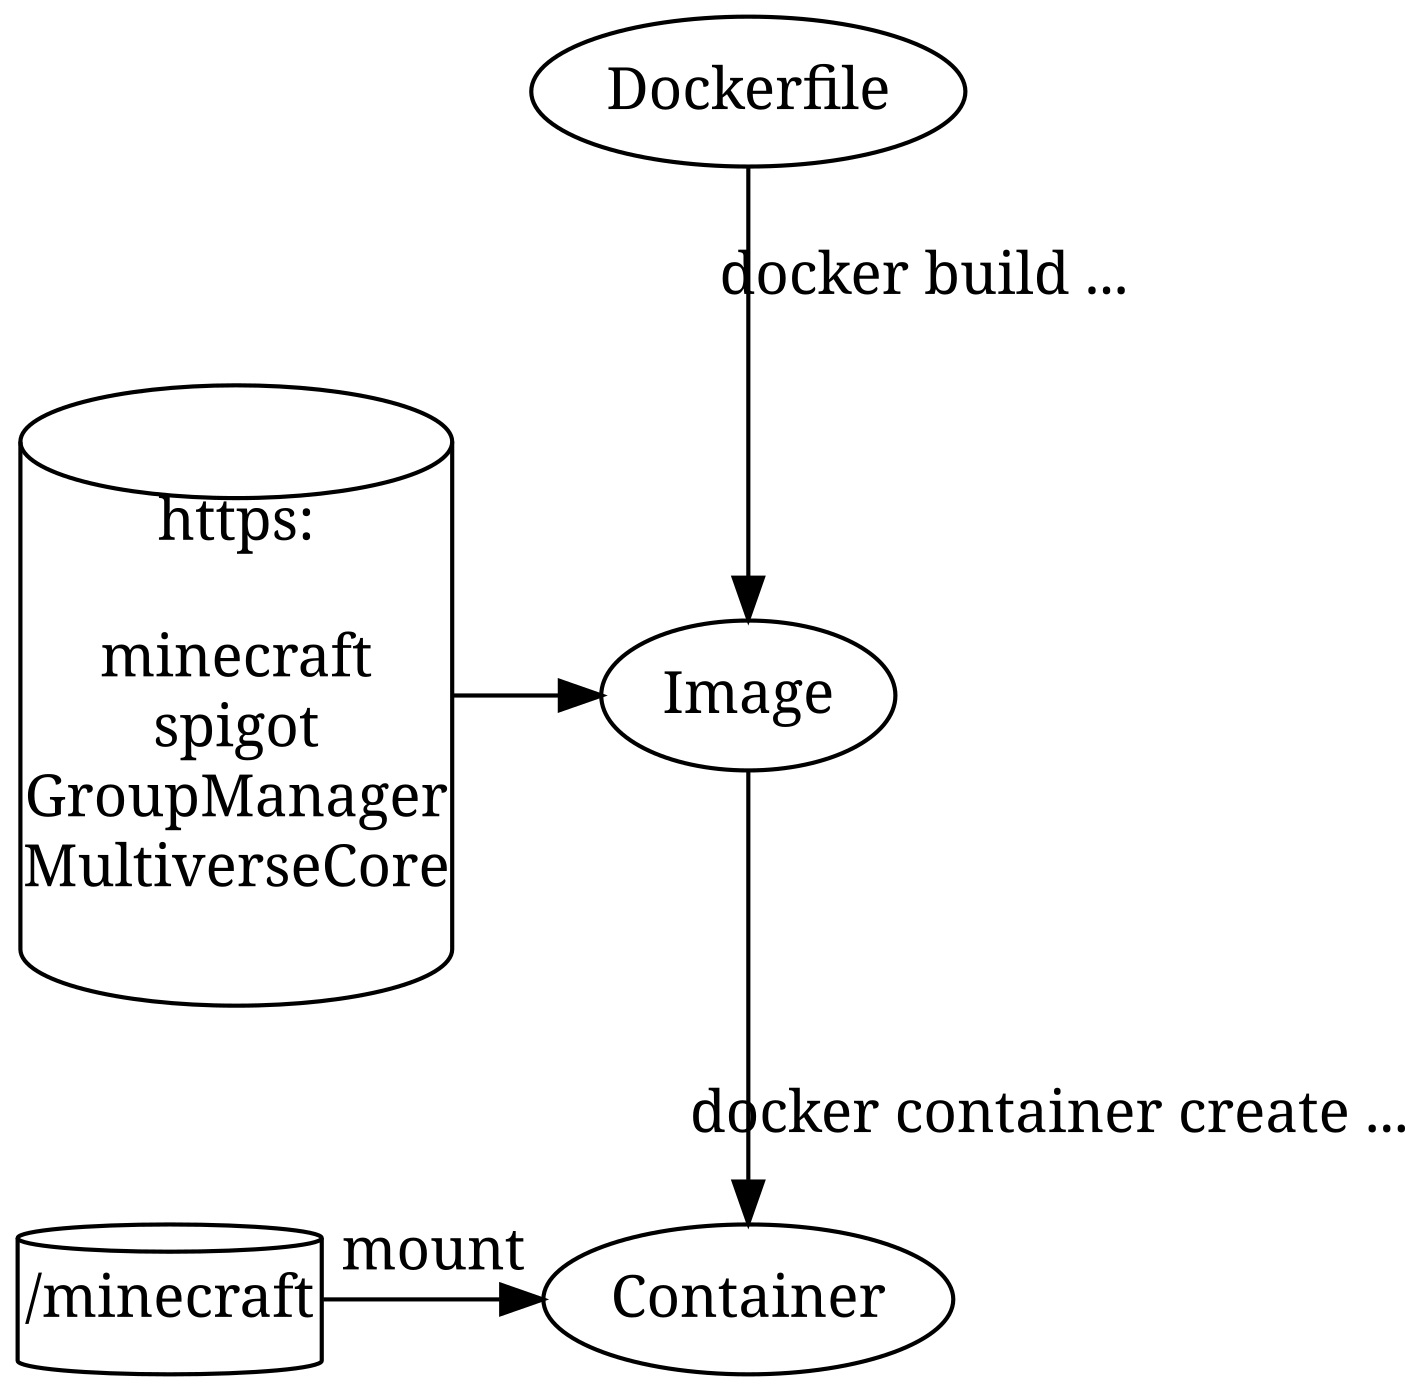
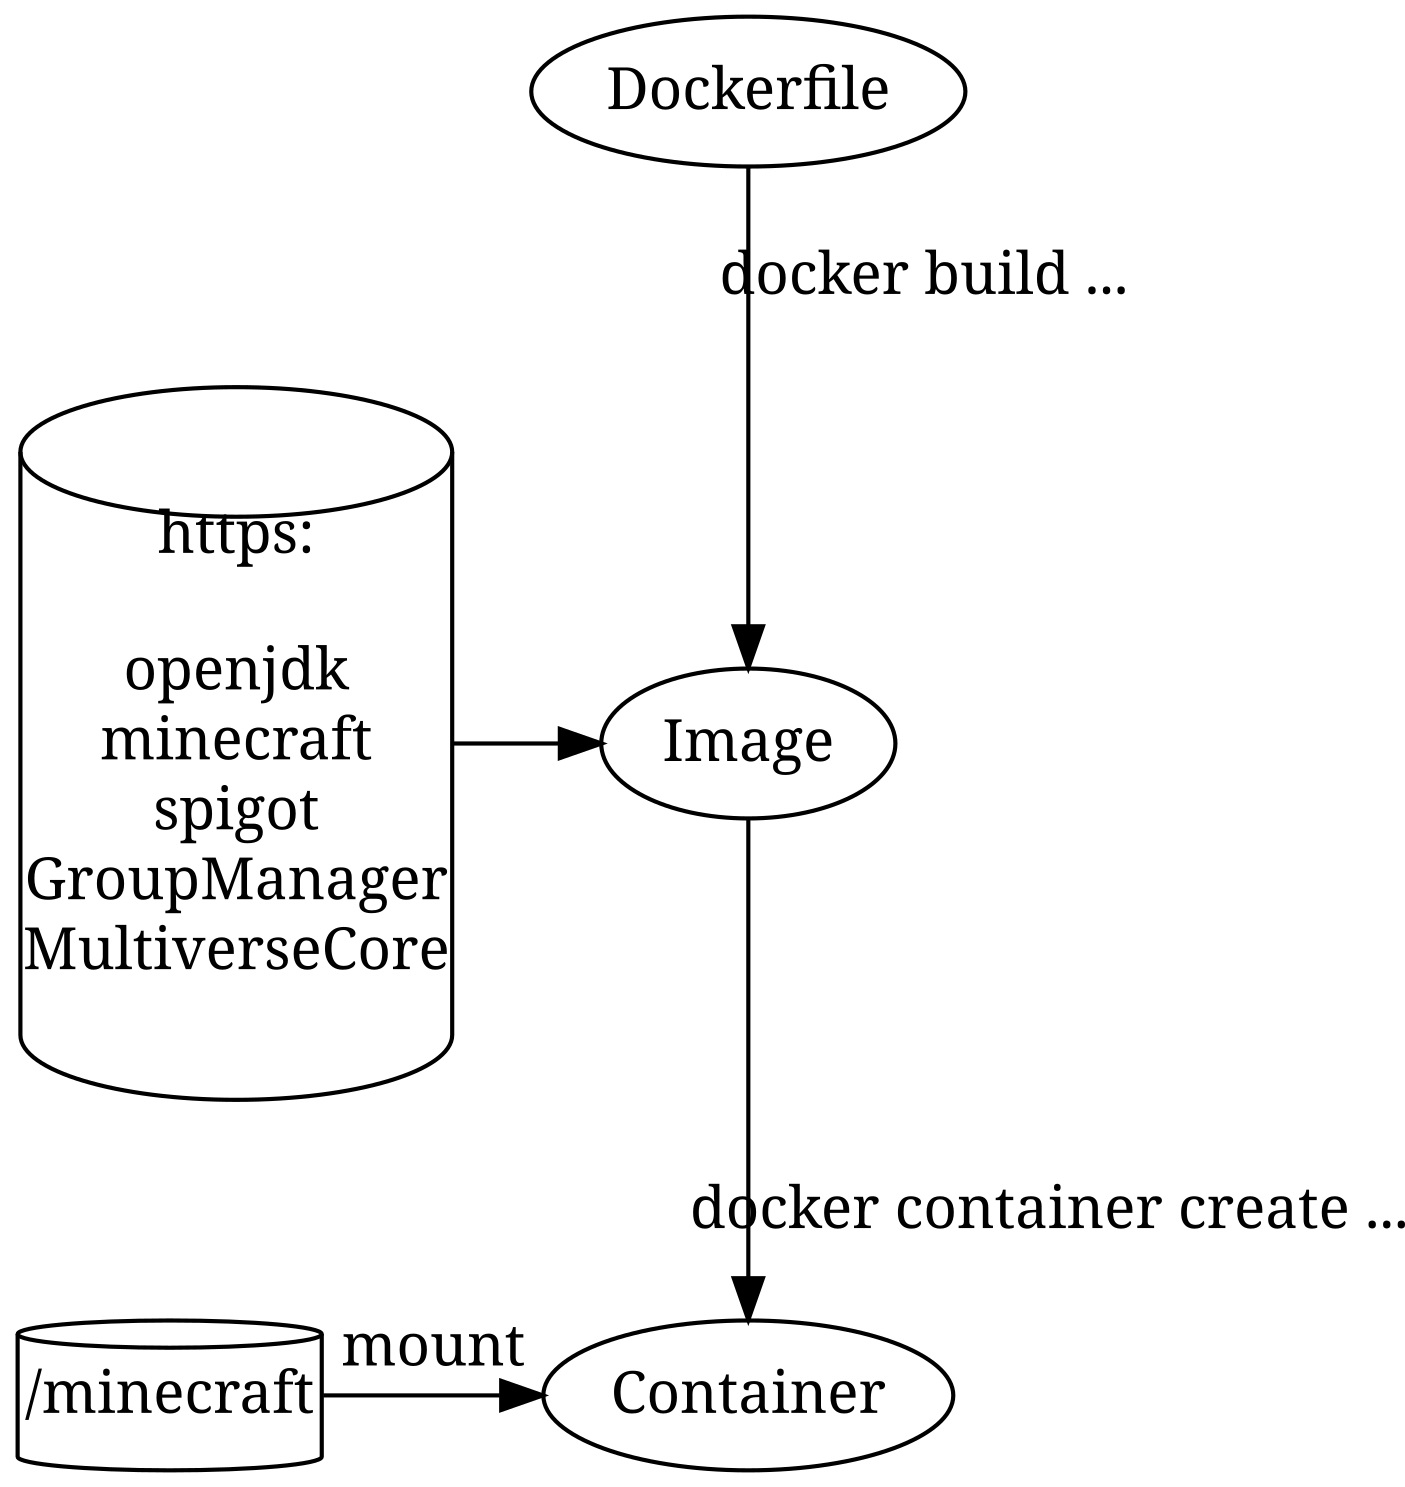
Updated readme file

diff --git a/README.md b/README.md
@@ -17,7 +17,7 @@ docker container create -it --name minecraftContainer -p 25565:25565 --mount typ
 <!--
 digraph G {
   Dockerfile -> Image[label="docker build ..."];
-  http[shape=cylinder,label="https:\n\nminecraft\nspigot\nGroupManager\nMultiverseCore"];
+  http[shape=cylinder,label="https:\n\nopenjdk\nminecraft\nspigot\nGroupManager\nMultiverseCore"];
   http -> Image;
   { rank=same; http; Image }
   Image -> Container[label="docker container create ..."];
@@ -26,3 +26,91 @@ digraph G {
   { rank=same; minecraft; Container }
 }
 -->
+
+## Working List of Commands
+
+Url to download the actual list of minecraft versions with download link: [version_manifest_v2.json](https://launchermeta.mojang.com/mc/game/version_manifest_v2.json)
+
+Create image from current folders `Dockerfile` (optional --no-cache):
+
+```sh
+docker build -t my_minecraft_image .
+```
+
+```sh
+docker build --no-cache -t my_minecraft_image .
+```
+
+```sh
+docker build --build-arg="JAVA_PARAMETER=-Xmx2048M -Xms2048M" -t my_minecraft_image .
+```
+
+List all Images:
+
+```sh
+docker images
+```
+
+Deleate Image
+
+```sh
+docker image rm my_minecraft_image
+```
+
+Check group
+
+```sh
+if grep -q "docker" /etc/group ; then echo Yes; else echo no; fi
+```
+
+Add group (needs restart)
+
+```sh
+usermod -aG docker $USER
+```
+
+List all containers
+
+```sh
+docker ps -a
+```
+
+Create without running
+
+```sh
+docker container create -it --name minecraftVanillaU -p 25565:25565 ubuntu:latest sh
+```
+
+```sh
+docker container create -it --name minecraftVanillaU -p 25565:25565 --mount type=bind,source="$(pwd)"/minecraft,target=/minecraft --env ACCEPT_EULA=true my_minecraft_image sh
+```
+
+Stop
+
+```sh
+docker stop minecraftVanillaU
+```
+
+Remove
+
+```sh
+docker stop minecraftVanillaU ; docker remove minecraftVanillaU
+```
+
+Start
+
+```sh
+docker start minecraftVanillaU
+```
+
+(1) Execute
+
+```sh
+docker exec -it minecraftVanillaU sh
+```
+
+(2) Execute multiple
+
+```sh
+docker exec -it minecraftVanillaU sh -c 'export VAR1=value1; echo Hi; echo Yes${VAR1}'
+```
